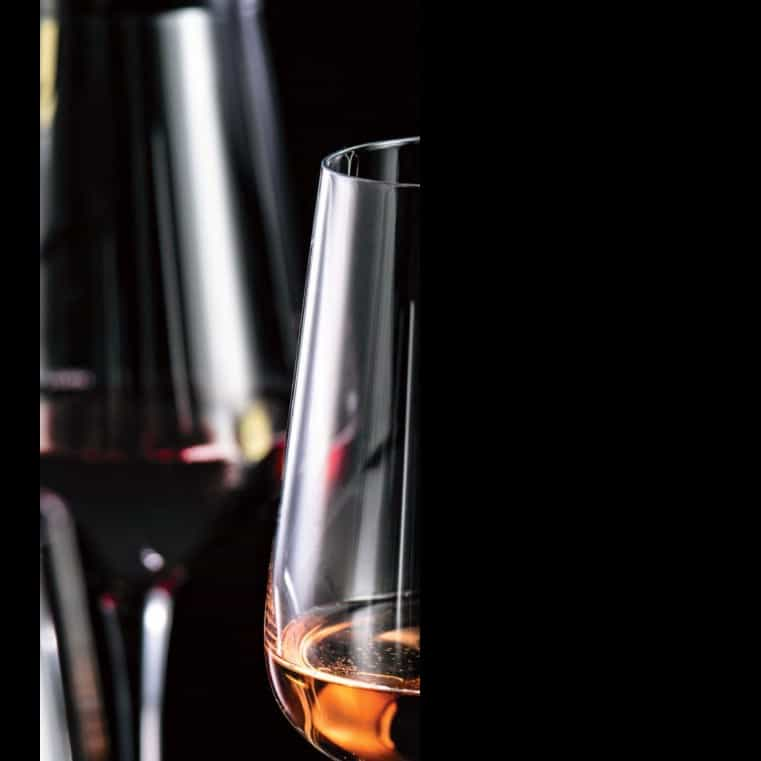
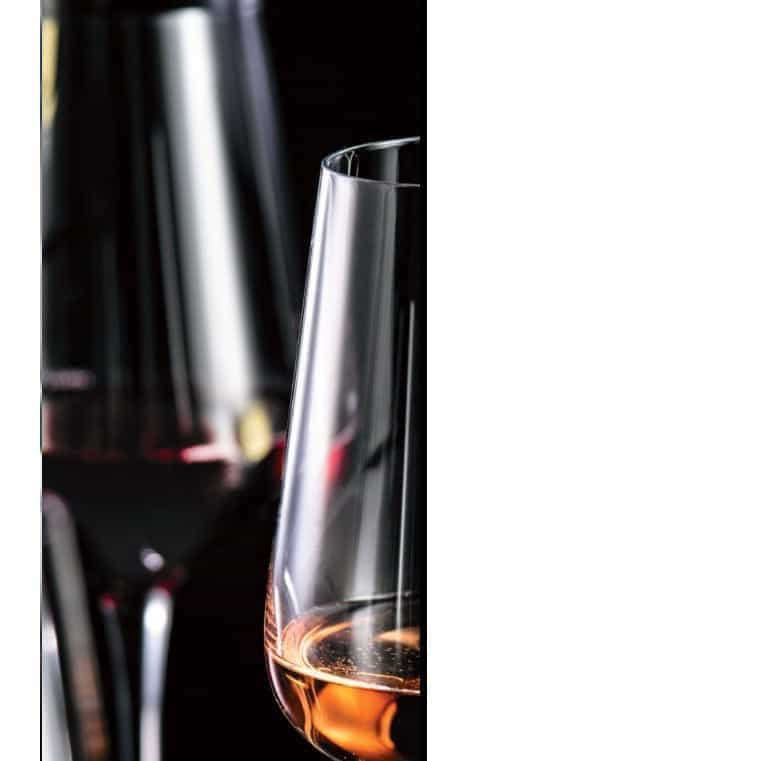
back to light mode

diff --git a/Tyo-tyo/speisekarte.html b/Tyo-tyo/speisekarte.html
@@ -3,17 +3,17 @@
 <head><meta http-equiv=Content-Type content="text/html; charset=UTF-8">
 <style type="text/css">
 <!--
-span.cls_002{font-family:Arial,serif;font-size:28.1px;color:rgb(255,255,255);font-weight:bold;font-style:normal;text-decoration: none}
+span.cls_002{font-family:Arial,serif;font-size:28.1px;color:var(--font-color1);font-weight:bold;font-style:normal;text-decoration: none}
 div.cls_002{font-family:Arial,serif;font-size:28.1px;color:rgb(35,31,31);font-weight:bold;font-style:normal;text-decoration: none}
 span.cls_003{font-family:Arial,serif;font-size:18.1px;color:rgb(150,150,152);font-weight:bold;font-style:normal;text-decoration: none}
 div.cls_003{font-family:Arial,serif;font-size:18.1px;color:rgb(150,150,152);font-weight:bold;font-style:normal;text-decoration: none}
-span.cls_004{font-family:Arial,serif;font-size:13.6px;color:rgb(255,255,255,0.9);font-weight:bold;font-style:normal;text-decoration: none}
+span.cls_004{font-family:Arial,serif;font-size:13.6px;color:var(--font-color1);font-weight:bold;font-style:normal;text-decoration: none}
 div.cls_004{font-family:Arial,serif;font-size:13.6px;color:rgb(35,31,31);font-weight:bold;font-style:normal;text-decoration: none}
-span.cls_005{font-family:"Book Antiqua Italic",serif;font-size:11.1px;color:rgba(255,255,255,0.5);font-weight:normal;font-style:italic;text-decoration: none}
+span.cls_005{font-family:"Book Antiqua Italic",serif;font-size:11.1px;color:var(--font-color2);font-weight:normal;font-style:italic;text-decoration: none}
 div.cls_005{font-family:"Book Antiqua Italic",serif;font-size:11.1px;color:rgb(35,31,31);font-weight:normal;font-style:italic;text-decoration: none}
-span.cls_006{font-family:Arial,serif;font-size:11.1px;color:rgb(255,255,255,0.7);font-weight:bold;font-style:normal;text-decoration: none}
+span.cls_006{font-family:Arial,serif;font-size:11.1px;color:var(--font-color3);font-weight:bold;font-style:normal;text-decoration: none}
 div.cls_006{font-family:Arial,serif;font-size:11.1px;color:rgb(35,31,31);font-weight:bold;font-style:normal;text-decoration: none}
-span.cls_007{font-family:Arial,serif;font-size:13.6px;color:rgb(255,255,255,0.7);font-weight:normal;font-style:italic;text-decoration: none}
+span.cls_007{font-family:Arial,serif;font-size:13.6px;color:var(--font-color3);font-weight:normal;font-style:italic;text-decoration: none}
 div.cls_007{font-family:Arial,serif;font-size:13.6px;color:rgb(35,31,31);font-weight:normal;font-style:italic;text-decoration: none}
 span.cls_008{font-family:Arial,serif;font-size:24.1px;color:rgb(235,234,234);font-weight:bold;font-style:normal;text-decoration: none}
 div.cls_008{font-family:Arial,serif;font-size:24.1px;color:rgb(235,234,234);font-weight:bold;font-style:normal;text-decoration: none}
@@ -23,26 +23,35 @@ span.cls_010{font-family:Arial,serif;font-size:13.6px;color:rgb(235,234,234);fon
 div.cls_010{font-family:Arial,serif;font-size:13.6px;color:rgb(235,234,234);font-weight:bold;font-style:normal;text-decoration: none}
 span.cls_011{font-family:Arial,serif;font-size:13.6px;color:rgb(235,234,234);font-weight:normal;font-style:italic;text-decoration: none}
 div.cls_011{font-family:Arial,serif;font-size:13.6px;color:rgb(235,234,234);font-weight:normal;font-style:italic;text-decoration: none}
-span.cls_013{font-family:Arial,serif;font-size:20.1px;color:rgb(255,255,255);font-weight:bold;font-style:normal;text-decoration: none}
+span.cls_013{font-family:Arial,serif;font-size:20.1px;color:var(--font-color1);font-weight:bold;font-style:normal;text-decoration: none}
 div.cls_013{font-family:Arial,serif;font-size:20.1px;color:rgb(35,31,31);font-weight:bold;font-style:normal;text-decoration: none}
-span.cls_012{font-family:Arial,serif;font-size:16.1px;color:rgb(255,255,255,0.9);font-weight:bold;font-style:normal;text-decoration: none}
+span.cls_012{font-family:Arial,serif;font-size:16.1px;color:var(--font-color1);font-weight:bold;font-style:normal;text-decoration: none}
 div.cls_012{font-family:Arial,serif;font-size:16.1px;color:rgb(35,31,31);font-weight:bold;font-style:normal;text-decoration: none}
-span.cls_014{font-family:Arial,serif;font-size:12.1px;color:rgb(255,255,255,0.8);font-weight:bold;font-style:normal;text-decoration: none}
+span.cls_014{font-family:Arial,serif;font-size:12.1px;color:var(--font-color2);font-weight:bold;font-style:normal;text-decoration: none}
 div.cls_014{font-family:Arial,serif;font-size:12.1px;color:rgb(35,31,31);font-weight:bold;font-style:normal;text-decoration: none}
-span.cls_015{font-family:"Book Antiqua Italic",serif;font-size:10.1px;color:rgb(255,255,255,0.6);font-weight:normal;font-style:italic;text-decoration: none}
+span.cls_015{font-family:"Book Antiqua Italic",serif;font-size:10.1px;color:var(--font-color4);font-weight:normal;font-style:italic;text-decoration: none}
 div.cls_015{font-family:"Book Antiqua Italic",serif;font-size:10.1px;color:rgb(35,31,31);font-weight:normal;font-style:italic;text-decoration: none}
-span.cls_016{font-family:Arial,serif;font-size:10.1px;color:rgb(255,255,255,0.5);font-weight:bold;font-style:italic;text-decoration: none}
+span.cls_016{font-family:Arial,serif;font-size:10.1px;color:var(--font-color5);font-weight:bold;font-style:italic;text-decoration: none}
 div.cls_016{font-family:Arial,serif;font-size:10.1px;color:rgb(35,31,31);font-weight:bold;font-style:italic;text-decoration: none}
-span.cls_017{font-family:"Book Antiqua",serif;font-size:11.1px;color:rgb(255,255,255,0.7);font-weight:normal;font-style:normal;text-decoration: none}
+span.cls_017{font-family:"Book Antiqua",serif;font-size:11.1px;color:var(--font-color3);font-weight:normal;font-style:normal;text-decoration: none}
 div.cls_017{font-family:"Book Antiqua",serif;font-size:11.1px;color:rgb(35,31,31);font-weight:normal;font-style:normal;text-decoration: none}
-span.cls_020{font-family:Arial,serif;font-size:10.1px;color:rgb(255,255,255,0.8);font-weight:bold;font-style:normal;text-decoration: none}
+span.cls_020{font-family:Arial,serif;font-size:10.1px;color:var(--font-color2);font-weight:bold;font-style:normal;text-decoration: none}
 div.cls_020{font-family:Arial,serif;font-size:10.1px;color:rgb(35,31,31);font-weight:bold;font-style:normal;text-decoration: none}
-span.cls_021{font-family:Arial,serif;font-size:11.1px;color:rgb(255,255,255,0.7);font-weight:bold;font-style:italic;text-decoration: none}
+span.cls_021{font-family:Arial,serif;font-size:11.1px;color:var(--font-color3);font-weight:bold;font-style:italic;text-decoration: none}
 div.cls_021{font-family:Arial,serif;font-size:11.1px;color:rgb(35,31,31);font-weight:bold;font-style:italic;text-decoration: none}
 -->
 </style>
+        <script src="https://cdn.linearicons.com/free/1.0.0/svgembedder.min.js">
+        </script>
+<script src="../dark.js">
+</script>
 </head>
 <body>
+    <!--
+                <div class="theme-status-container">
+                <img src="../assets/lnr-moon.svg" class="dark-toggle" id="dark_toggle" onclick="toggle_theme()"></img>
+                </div>
+    -->
 <div style="position:absolute;left:50%;margin-left:-338px;top:0px;width:677px;height:606px;overflow:hidden">
 <div style="position:absolute;left:328.45px;top:42.83px" class="cls_002"><span class="cls_002">ZENSA</span></div>
 <div style="position:absolute;left:317.30px;top:76.83px" class="cls_003"><span class="cls_003">VORSPEISEN</span></div>
@@ -88,7 +97,7 @@ div.cls_021{font-family:Arial,serif;font-size:11.1px;color:rgb(35,31,31);font-we
 </div>
 <div style="position:absolute;left:50%;margin-left:-338px;top:1848px;width:677px;height:606px;overflow:hidden">
 <div style="position:absolute;left:0px;top:0px">
-<img src="index_files/background04.jpg" width=677 height=606></div>
+<img src="index_files/background04-light.jpg" width=677 height=606></div>
 <div style="position:absolute;left:361.56px;top:174.01px" class="cls_002"><span class="cls_002">YAKIMASHITA</span></div>
 <div style="position:absolute;left:396.45px;top:208.01px" class="cls_003"><span class="cls_003">GEBACKENES</span></div>
 <div style="position:absolute;left:404.08px;top:278.50px" class="cls_004"><span class="cls_004">Chicken Karaage</span></div>
@@ -102,7 +111,7 @@ div.cls_021{font-family:Arial,serif;font-size:11.1px;color:rgb(35,31,31);font-we
 </div>
 <div style="position:absolute;left:50%;margin-left:-338px;top:2464px;width:677px;height:606px;overflow:hidden">
 <div style="position:absolute;left:0px;top:0px">
-<img src="index_files/background05.jpg" width=677 height=606></div>
+<img src="index_files/background05-light.jpg" width=677 height=606></div>
 <div style="position:absolute;left:477.01px;top:54.64px" class="cls_002"><span class="cls_002">SŪPU</span></div>
 <div style="position:absolute;left:478.52px;top:88.64px" class="cls_003"><span class="cls_003">SUPPEN</span></div>
 <div style="position:absolute;left:478.47px;top:159.64px" class="cls_004"><span class="cls_004">Miso Suppe</span></div>
@@ -126,7 +135,7 @@ div.cls_021{font-family:Arial,serif;font-size:11.1px;color:rgb(35,31,31);font-we
 </div>
 <div style="position:absolute;left:50%;margin-left:-338px;top:3080px;width:677px;height:606px;overflow:hidden">
 <div style="position:absolute;left:0px;top:0px">
-<img src="index_files/background06.jpg" width=677 height=606></div>
+<img src="index_files/background06-light.jpg" width=677 height=606></div>
 <div style="position:absolute;left:165.18px;top:28.24px" class="cls_004"><span class="cls_004">»Chisana« Sashimi </span><span class="cls_007">(8 Stück)</span></div>
 <div style="position:absolute;left:216.70px;top:46.74px" class="cls_005"><span class="cls_005">Salmon Sashimi</span></div>
 <div style="position:absolute;left:244.42px;top:62.75px" class="cls_006"><span class="cls_006">11,9</span></div>
@@ -261,7 +270,7 @@ div.cls_021{font-family:Arial,serif;font-size:11.1px;color:rgb(35,31,31);font-we
 </div>
 <div style="position:absolute;left:50%;margin-left:-338px;top:5544px;width:677px;height:606px;overflow:hidden">
 <div style="position:absolute;left:0px;top:0px">
-<img src="index_files/background10.jpg" width=677 height=606></div>
+<img src="index_files/background10-light.jpg" width=677 height=606></div>
 <div style="position:absolute;left:173.32px;top:107.32px" class="cls_002"><span class="cls_002">TEMACO</span></div>
 <div style="position:absolute;left:180.28px;top:141.32px" class="cls_003"><span class="cls_003">SUSHI TACO</span></div>
 <div style="position:absolute;left:181.27px;top:242.46px" class="cls_004"><span class="cls_004">Avocado Temaco</span></div>
@@ -287,7 +296,7 @@ div.cls_021{font-family:Arial,serif;font-size:11.1px;color:rgb(35,31,31);font-we
 </div>
 <div style="position:absolute;left:50%;margin-left:-338px;top:7392px;width:677px;height:606px;overflow:hidden">
 <div style="position:absolute;left:0px;top:0px">
-<img src="index_files/background13.jpg" width=677 height=606></div>
+<img src="index_files/background13-light.jpg" width=677 height=606></div>
 <div style="position:absolute;left:427.39px;top:67.90px" class="cls_002"><span class="cls_002">NIKU</span></div>
 <div style="position:absolute;left:423.30px;top:101.90px" class="cls_003"><span class="cls_003">FLEISCH</span></div>
 <div style="position:absolute;left:429.09px;top:159.32px" class="cls_004"><span class="cls_004">Pork Belly</span></div>
@@ -310,7 +319,7 @@ div.cls_021{font-family:Arial,serif;font-size:11.1px;color:rgb(35,31,31);font-we
 </div>
 <div style="position:absolute;left:50%;margin-left:-338px;top:8008px;width:677px;height:606px;overflow:hidden">
 <div style="position:absolute;left:0px;top:0px">
-<img src="index_files/background14.jpg" width=677 height=606></div>
+<img src="index_files/background14-light.jpg" width=677 height=606></div>
 <div style="position:absolute;left:175.90px;top:106.19px" class="cls_004"><span class="cls_004">Lachs »Teri-Yaki«</span></div>
 <div style="position:absolute;left:184.19px;top:124.69px" class="cls_005"><span class="cls_005">Lachsfilet  -  Teriyaki</span></div>
 <div style="position:absolute;left:186.41px;top:140.84px" class="cls_005"><span class="cls_005">Sesam  -  Frühlauch</span></div>
@@ -337,7 +346,7 @@ div.cls_021{font-family:Arial,serif;font-size:11.1px;color:rgb(35,31,31);font-we
 </div>
 <div style="position:absolute;left:50%;margin-left:-338px;top:9240px;width:677px;height:606px;overflow:hidden">
 <div style="position:absolute;left:0px;top:0px">
-<img src="index_files/background16.jpg" width=677 height=606></div>
+<img src="index_files/background16-light.jpg" width=677 height=606></div>
 <div style="position:absolute;left:363.20px;top:54.29px" class="cls_002"><span class="cls_002">SAIDODISSHU</span></div>
 <div style="position:absolute;left:414.41px;top:88.29px" class="cls_003"><span class="cls_003">BEILAGEN</span></div>
 <div style="position:absolute;left:416.41px;top:158.45px" class="cls_005"><span class="cls_005">Gewoktes Gemüse</span></div>
@@ -361,7 +370,7 @@ div.cls_021{font-family:Arial,serif;font-size:11.1px;color:rgb(35,31,31);font-we
 </div>
 <div style="position:absolute;left:50%;margin-left:-338px;top:9856px;width:677px;height:606px;overflow:hidden">
 <div style="position:absolute;left:0px;top:0px">
-<img src="index_files/background17.jpg" width=677 height=606></div>
+<img src="index_files/background17-light.jpg" width=677 height=606></div>
 <div style="position:absolute;left:471.67px;top:54.09px" class="cls_002"><span class="cls_002">SHŌYU</span></div>
 <div style="position:absolute;left:485.54px;top:88.09px" class="cls_003"><span class="cls_003">SAUCEN</span></div>
 <div style="position:absolute;left:495.88px;top:158.54px" class="cls_005"><span class="cls_005">Housesauce</span></div>
@@ -475,7 +484,59 @@ div.cls_021{font-family:Arial,serif;font-size:11.1px;color:rgb(35,31,31);font-we
 </div>
 </body>
 <style>
-html{background:black;}
-body{background:black;}
+html{background:var(--bg-color);}
+body{background:var(--bg-color);}
+:root{
+--background-1: url(./index_files/background04.jpg);
+--background-2: url(./index_files/background05.jpg);
+--background-3: url(./index_files/background06.jpg);
+--background-4: url(./index_files/background10.jpg);
+--background-5: url(./index_files/background13.jpg);
+--background-6: url(./index_files/background14.jpg);
+--background-7: url(./index_files/background16.jpg);
+--background-8: url(./index_files/background17.jpg);
+}
+
+.dark-toggle{
+    padding: 2vh 2vw 0 0;
+    position: fixed;
+    height: 2em;
+    right: 0;
+    width: 2em;
+    filter: invert(var(--inverted-toggle));
+}
+
+ .theme-light {
+    --font-color: #000000;
+    --font-color1: rgba(0,0,0,0.9);
+    --font-color2: rgba(0,0,0,0.8);
+    --font-color3: rgba(0,0,0,0.7);
+    --font-color4: rgba(0,0,0,0.6);
+    --font-color5: rgba(0,0,0,0.5);
+    --font-color6: rgba(0,0,0,0.4);
+    --bg-color: #ffffff;
+    --inverted-toggle:0;
+
+--background-1: url(./index_files/background04-light.jpg);
+--background-2: url(./index_files/background05-light.jpg);
+--background-3: url(./index_files/background06-light.jpg);
+--background-4: url(./index_files/background10-light.jpg);
+--background-5: url(./index_files/background13-light.jpg);
+--background-6: url(./index_files/background14-light.jpg);
+--background-7: url(./index_files/background16-light.jpg);
+--background-8: url(./index_files/background17-light.jpg);
+ }
+
+ .theme-dark{
+    --font-color: #ffffff;
+    --font-color1: rgba(255,255,255,0.9);
+    --font-color2: rgba(255,255,255,0.8);
+    --font-color3: rgba(255,255,255,0.7);
+    --font-color4: rgba(255,255,255,0.6);
+    --font-color5: rgba(255,255,255,0.5);
+    --font-color6: rgba(255,255,255,0.4);
+    --bg-color: #000000;
+    --inverted-toggle:1;
+ }
 </style>
 </html>

diff --git a/Tyo-tyo/getraenke-dark.html b/Tyo-tyo/getraenke-dark.html
@@ -2,17 +2,17 @@
 <head><meta http-equiv=Content-Type content="text/html; charset=UTF-8">
 <style type="text/css">
 <!--
-span.cls_002{font-family:Arial,serif;font-size:28.1px;color:rgb(35,31,31);font-weight:bold;font-style:normal;text-decoration: none}
+span.cls_002{font-family:Arial,serif;font-size:28.1px;color:rgb(255,255,255);font-weight:bold;font-style:normal;text-decoration: none}
 div.cls_002{font-family:Arial,serif;font-size:28.1px;color:rgb(35,31,31);font-weight:bold;font-style:normal;text-decoration: none}
-span.cls_003{font-family:Arial,serif;font-size:13.6px;color:rgb(35,31,31);font-weight:bold;font-style:normal;text-decoration: none}
+span.cls_003{font-family:Arial,serif;font-size:13.6px;color:rgb(255,255,255,0.8);font-weight:bold;font-style:normal;text-decoration: none}
 div.cls_003{font-family:Arial,serif;font-size:13.6px;color:rgb(35,31,31);font-weight:bold;font-style:normal;text-decoration: none}
-span.cls_004{font-family:"Book Antiqua",serif;font-size:11.1px;color:rgb(35,31,31);font-weight:normal;font-style:normal;text-decoration: none}
+span.cls_004{font-family:"Book Antiqua",serif;font-size:11.1px;color:rgb(255,255,255,0.5);font-weight:normal;font-style:normal;text-decoration: none}
 div.cls_004{font-family:"Book Antiqua",serif;font-size:11.1px;color:rgb(35,31,31);font-weight:normal;font-style:normal;text-decoration: none}
-span.cls_005{font-family:Arial,serif;font-size:11.1px;color:rgb(35,31,31);font-weight:bold;font-style:normal;text-decoration: none}
+span.cls_005{font-family:Arial,serif;font-size:11.1px;color:rgb(255,255,255,0.8);font-weight:bold;font-style:normal;text-decoration: none}
 div.cls_005{font-family:Arial,serif;font-size:11.1px;color:rgb(35,31,31);font-weight:bold;font-style:normal;text-decoration: none}
-span.cls_006{font-family:"Book Antiqua Italic",serif;font-size:11.1px;color:rgb(35,31,31);font-weight:normal;font-style:italic;text-decoration: none}
+span.cls_006{font-family:"Book Antiqua Italic",serif;font-size:11.1px;color:rgb(255,255,255,0.6);font-weight:normal;font-style:italic;text-decoration: none}
 div.cls_006{font-family:"Book Antiqua Italic",serif;font-size:11.1px;color:rgb(35,31,31);font-weight:normal;font-style:italic;text-decoration: none}
-span.cls_007{font-family:"Book Antiqua",serif;font-size:13.6px;color:rgb(35,31,31);font-weight:normal;font-style:normal;text-decoration: none}
+span.cls_007{font-family:"Book Antiqua",serif;font-size:13.6px;color:rgb(255,255,255,0.6);font-weight:normal;font-style:normal;text-decoration: none}
 div.cls_007{font-family:"Book Antiqua",serif;font-size:13.6px;color:rgb(35,31,31);font-weight:normal;font-style:normal;text-decoration: none}
 -->
 </style>
@@ -706,6 +706,9 @@ div.cls_007{font-family:"Book Antiqua",serif;font-size:13.6px;color:rgb(35,31,31
 <div style="position:absolute;left:120.41px;top:456.21px" class="cls_006"><span class="cls_006">Unsere Mitarbeiter informieren gerne über Allergene und Zusatzstoffe.</span></div>
 <div style="position:absolute;left:209.92px;top:469.70px" class="cls_006"><span class="cls_006">Preise in Euro inkl. Mehrwertsteuer</span></div>
 </div>
-
+<style>
+html{background:black;}
+body{background:black;}
+</style>
 </body>
 </html>

diff --git a/Tyo-tyo/index.html b/Tyo-tyo/index.html
@@ -3,7 +3,7 @@
 <head><meta http-equiv=Content-Type content="text/html; charset=UTF-8">
 <style type="text/css">
 <!--
-html,body{margin: unset;background: black;}
+html,body{margin: unset;background: white;}
 a{text-decoration:none;}
 .buttons-c{
     display: flex;
@@ -15,8 +15,8 @@ a{text-decoration:none;}
 .speisekarte-c{
     /*width: 60vw;
     height: 40vh;*/
-    background: #121212;
-    color: white;
+    background: rgb(0,0,0,0.1);
+    color: black;
     height: fit-content;
     padding: 10vh 10vw;
     font-family: Avenir Next;
@@ -26,8 +26,8 @@ a{text-decoration:none;}
 .getränkekarte-c{
     /*width: 60vw;
     height: 40vh;*/
-    background: #121212;
-    color: white;
+    background: rgb(0,0,0,0.1);
+    color: black;
     height: fit-content;
     padding: 10vh 10vw;
     font-family: Avenir Next;
